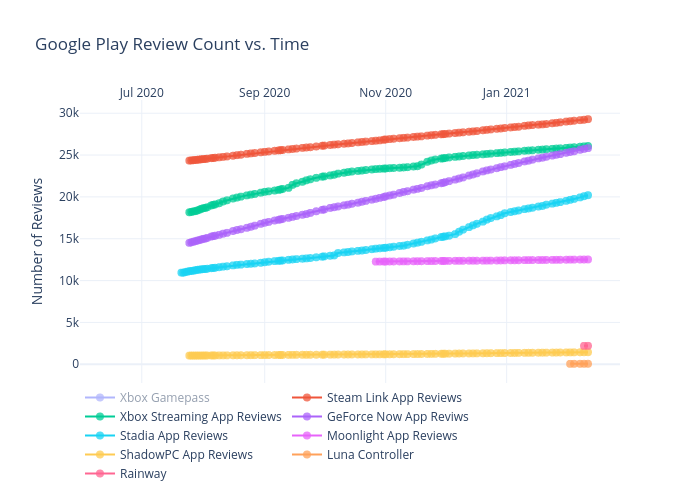
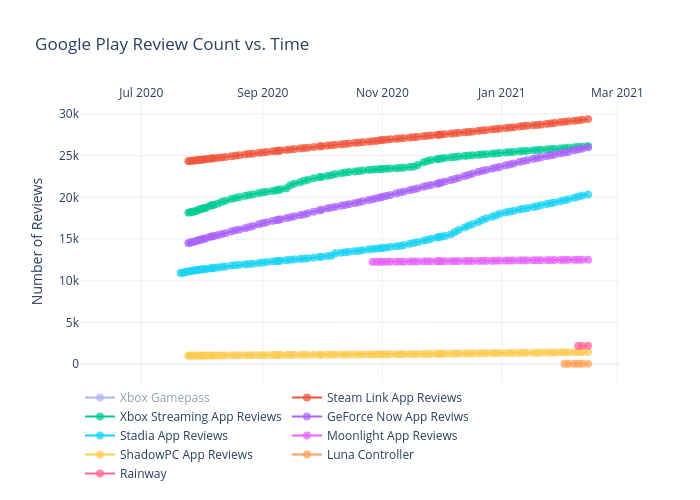
Add files via upload

diff --git a/googleplay/figure.js b/googleplay/figure.js
@@ -114,7 +114,8 @@ var figure = {
                 "2021-02-04",
                 "2021-02-07",
                 "2021-02-09",
-                "2021-02-11"
+                "2021-02-11",
+                "2021-02-14"
             ],
             "ysrc": "jdeslip:360:26cc61",
             "y": [
@@ -220,7 +221,8 @@ var figure = {
                 null,
                 null,
                 "119833",
-                "120056"
+                "120056",
+                "120512"
             ],
             "marker": {
                 "size": 8,
@@ -345,7 +347,8 @@ var figure = {
                 "2021-02-04",
                 "2021-02-07",
                 "2021-02-09",
-                "2021-02-11"
+                "2021-02-11",
+                "2021-02-14"
             ],
             "ysrc": "jdeslip:360:e8e4cf",
             "y": [
@@ -451,7 +454,8 @@ var figure = {
                 "29105",
                 "29170",
                 "29216",
-                "29291"
+                "29291",
+                "29364"
             ],
             "marker": {
                 "size": 8,
@@ -576,7 +580,8 @@ var figure = {
                 "2021-02-04",
                 "2021-02-07",
                 "2021-02-09",
-                "2021-02-11"
+                "2021-02-11",
+                "2021-02-14"
             ],
             "ysrc": "jdeslip:360:f50e84",
             "y": [
@@ -682,7 +687,8 @@ var figure = {
                 "25934",
                 "25996",
                 "26043",
-                "26080"
+                "26080",
+                "26141"
             ],
             "marker": {
                 "size": 8,
@@ -807,7 +813,8 @@ var figure = {
                 "2021-02-04",
                 "2021-02-07",
                 "2021-02-09",
-                "2021-02-11"
+                "2021-02-11",
+                "2021-02-14"
             ],
             "ysrc": "jdeslip:360:7d131a",
             "y": [
@@ -913,7 +920,8 @@ var figure = {
                 "25451",
                 "25629",
                 "25736",
-                "25828"
+                "25828",
+                "25988"
             ],
             "marker": {
                 "size": 8,
@@ -1038,7 +1046,8 @@ var figure = {
                 "2021-02-04",
                 "2021-02-07",
                 "2021-02-09",
-                "2021-02-11"
+                "2021-02-11",
+                "2021-02-14"
             ],
             "ysrc": "jdeslip:360:a3f0bb",
             "y": [
@@ -1144,7 +1153,8 @@ var figure = {
                 "19760",
                 "19940",
                 "20083",
-                "20205"
+                "20205",
+                "20335"
             ],
             "marker": {
                 "size": 8,
@@ -1269,7 +1279,8 @@ var figure = {
                 "2021-02-04",
                 "2021-02-07",
                 "2021-02-09",
-                "2021-02-11"
+                "2021-02-11",
+                "2021-02-14"
             ],
             "ysrc": "jdeslip:360:8b5afa",
             "y": [
@@ -1375,7 +1386,8 @@ var figure = {
                 "12507",
                 "12514",
                 "12516",
-                "12524"
+                "12524",
+                "12530"
             ],
             "marker": {
                 "size": 8,
@@ -1500,7 +1512,8 @@ var figure = {
                 "2021-02-04",
                 "2021-02-07",
                 "2021-02-09",
-                "2021-02-11"
+                "2021-02-11",
+                "2021-02-14"
             ],
             "ysrc": "jdeslip:360:f3a0d7",
             "y": [
@@ -1606,7 +1619,8 @@ var figure = {
                 "1424",
                 "1433",
                 "1438",
-                "1444"
+                "1444",
+                "1460"
             ],
             "marker": {
                 "size": 8,
@@ -1731,7 +1745,8 @@ var figure = {
                 "2021-02-04",
                 "2021-02-07",
                 "2021-02-09",
-                "2021-02-11"
+                "2021-02-11",
+                "2021-02-14"
             ],
             "ysrc": "jdeslip:360:397713",
             "y": [
@@ -1837,6 +1852,7 @@ var figure = {
                 "52",
                 "54",
                 "56",
+                "57",
                 "57"
             ],
             "marker": {
@@ -1962,7 +1978,8 @@ var figure = {
                 "2021-02-04",
                 "2021-02-07",
                 "2021-02-09",
-                "2021-02-11"
+                "2021-02-11",
+                "2021-02-14"
             ],
             "ysrc": "jdeslip:360:28315e",
             "y": [
@@ -2068,7 +2085,8 @@ var figure = {
                 null,
                 null,
                 "2196",
-                "2202"
+                "2202",
+                "2220"
             ],
             "marker": {
                 "size": 8,
@@ -2087,8 +2105,8 @@ var figure = {
             "side": "top",
             "type": "date",
             "range": [
-                "2020-06-01 03:51:44.009",
-                "2021-02-25 20:08:15.991"
+                "2020-05-31 23:24:37.8091",
+                "2021-03-01 00:35:22.1909"
             ],
             "title": {
                 "text": ""
@@ -2098,8 +2116,8 @@ var figure = {
         "yaxis": {
             "type": "linear",
             "range": [
-                -2215.9006700827745,
-                31555.900670082774
+                -2048.5460696803916,
+                31461.546069680393
             ],
             "title": {
                 "text": "Number of Reviews"
